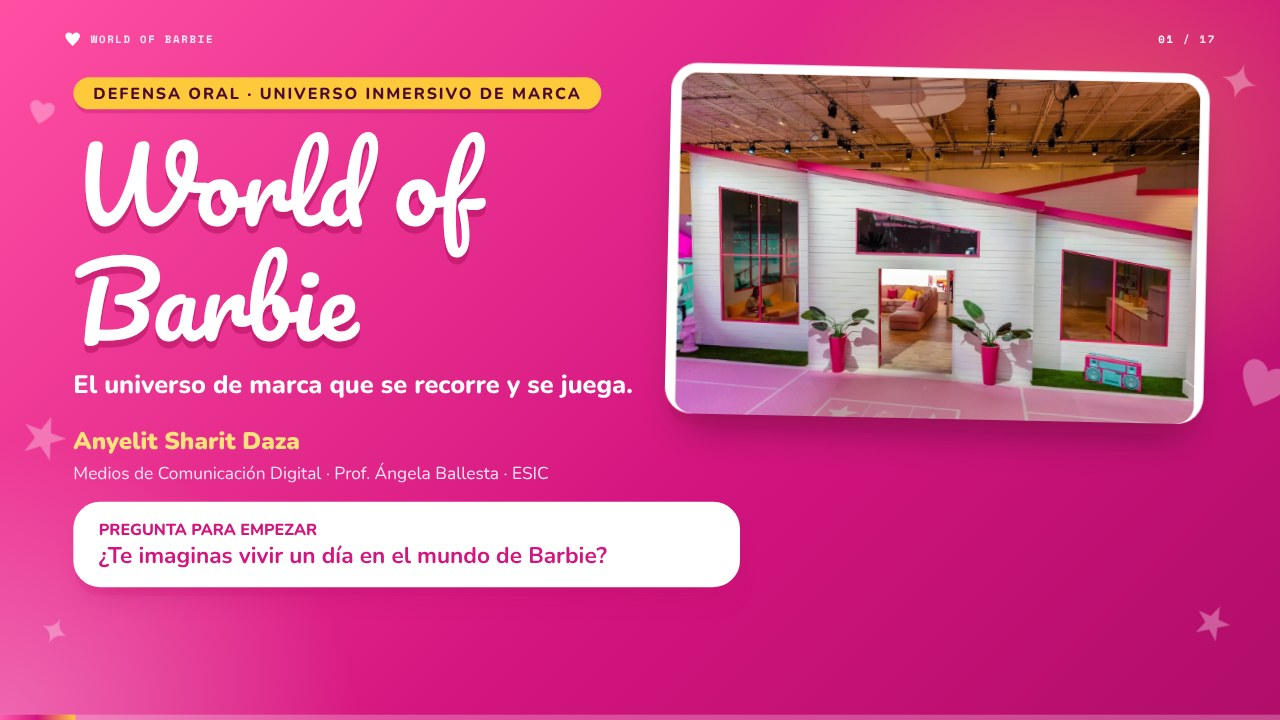
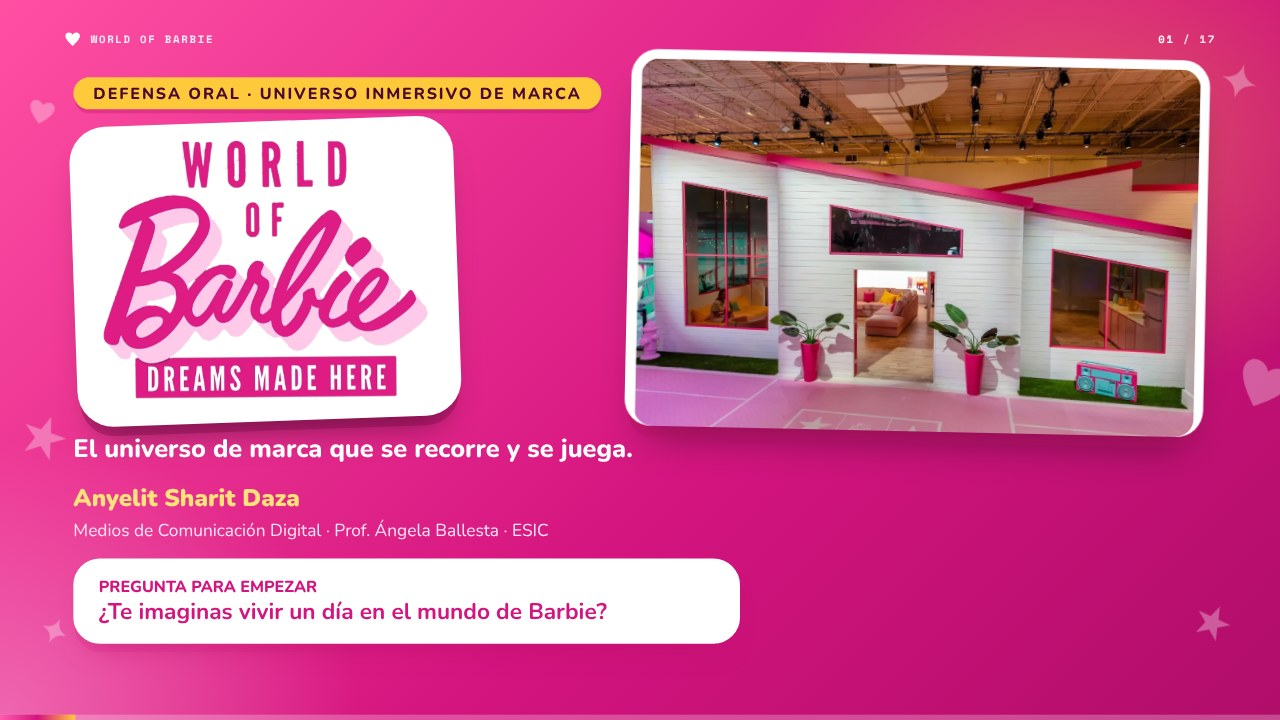
World of Barbie: logotipo recortado en la portada y fotos con más protagonismo (#54)
Claude-Session: https://claude.ai/code/session_01X8XjLzsPEuKnqDMJa19Lwn

diff --git a/world-of-barbie/index.html b/world-of-barbie/index.html
@@ -245,6 +245,23 @@ p{margin:0}
 .s-gracias h1,.s-valoracion h1{line-height:1.25} .s-gracias .lead,.s-valoracion .lead{margin-top:44px}
 .trio{top:92px} .trio .chipic{width:216px;height:216px}
 
+.logo-h1{margin:18px 0 0!important;line-height:0}
+.logo-h1 img{display:block;width:560px;height:auto;filter:drop-shadow(0 12px 0 rgba(120,10,70,.35))}
+.s-cover .lead{margin-top:6px}
+.s-cover .autora{margin-top:26px}
+/* ── las fotos toman más protagonismo ── */
+.withpic .cont{width:1180px} .withpic h2{max-width:1180px}
+.sidepic{position:absolute;right:110px;top:236px;width:540px;height:700px;margin:0;z-index:4;background:#fff;padding:14px;border-radius:46px;transform:rotate(3deg);box-shadow:0 24px 0 -6px rgba(176,18,95,.4),0 44px 60px -30px rgba(0,0,0,.45)}
+.sidepic img{display:block;width:100%;height:100%;object-fit:cover;border-radius:34px}
+.gal img{height:440px}
+.big-pic{width:880px;top:92px}
+.s-gracias .big-pic{width:900px;top:130px}
+.logo-h1{display:inline-block;background:#fff;border-radius:54px;padding:28px 38px 22px;transform:rotate(-2deg);box-shadow:0 18px 0 -4px rgba(120,10,70,.4),0 36px 50px -28px rgba(0,0,0,.5)}
+.logo-h1 img{width:500px;filter:none}
+.s-cover .lead{width:800px}
+.withpic .cont{width:1110px} .withpic h2{max-width:1110px}
+.big-pic{width:840px} .s-gracias .big-pic{width:820px}
+
 </style>
 </head>
 <body>
@@ -266,7 +283,7 @@ p{margin:0}
 <div class="cont">
 
 <div class="tagrow"><p class="tag">Defensa oral · Universo inmersivo de marca</p></div>
-<h1><span class="w">World</span> <span class="w">of</span><br><span class="w">Barbie</span></h1>
+<h1 class="logo-h1"><img src="img/logo-wob.png" alt="World of Barbie · Dreams made here"></h1>
 <p class="lead" style="width:900px;color:#FFFFFF">El universo de marca que se recorre y se juega.</p>
 <p class="autora">Anyelit Sharit Daza</p>
 <p class="curso">Medios de Comunicación Digital · Prof. Ángela Ballesta · ESIC</p>
@@ -343,8 +360,8 @@ p{margin:0}
 
 </div><p class="foot">Fuentes: Bianco y Leopo (2023); Resident (2023); El Universo (2023); Hewitt (2023). El orden puede cambiar según el día.</p>
 </section>
-<section class="lam claro s-inmersion" data-k="inmersion" data-notas="EN SIMPLE: «inmersiva» significa que entras, te quedas y participas, en vez de solo mirar. Son las tres pruebas de mi trabajo.|PREGUNTAS PROBABLES: 1) ¿Por qué participación «alta»? Porque el visitante actúa: presenta noticias, hace de DJ, se sienta al volante de la camper, se desliza al foso de pelotas. 2) ¿Por qué comparas con las otras tres? Para mostrar que World of Barbie une alta participación con gran alcance: más de 250.000 visitantes frente a 4 huéspedes. 3) ¿De dónde sale la definición? De Pine y Gilmore (1998) y Brakus et al. (2009): una experiencia de marca involucra a la persona de forma personal y memorable. Las tres pruebas son criterio del núcleo. 4) ¿La valoración es un dato? No, es mi punto de vista con esas fuentes.">
-<div class="trio"><i class="ichip lg"><svg class="ic" viewBox="0 0 100 100" fill="currentColor" stroke="currentColor" stroke-width="0" aria-hidden="true"><path d="M50 6 L61 38 L95 38 L67 58 L78 92 L50 71 L22 92 L33 58 L5 38 L39 38 Z"/></svg></i><i class="ichip lg"><svg class="ic" viewBox="0 0 100 100" fill="currentColor" stroke="currentColor" stroke-width="0" aria-hidden="true"><rect x="34" y="6" width="32" height="50" rx="16"/><path d="M22 40 C22 70 78 70 78 40" fill="none" stroke-width="7" stroke-linecap="round"/><rect x="46" y="64" width="8" height="22"/><rect x="30" y="86" width="40" height="8" rx="4"/></svg></i><i class="ichip lg"><svg class="ic" viewBox="0 0 100 100" fill="currentColor" stroke="currentColor" stroke-width="0" aria-hidden="true"><path d="M50 4 C54 32 68 46 96 50 C68 54 54 68 50 96 C46 68 32 54 4 50 C32 46 46 32 50 4 Z"/></svg></i><figure class="chipic"><img src="img/bolas.webp" alt="Visitantes ríen y levantan los brazos en la piscina de pelotas, junto al tobogán rosado"></figure></div><div class="deco"><span class="fl" style="left:40px;top:160px;width:86px;height:86px"><svg class="ic" viewBox="0 0 100 100" fill="currentColor" stroke="currentColor" stroke-width="0" aria-hidden="true"><path d="M50 6 L61 38 L95 38 L67 58 L78 92 L50 71 L22 92 L33 58 L5 38 L39 38 Z"/></svg></span><span class="fl" style="left:1830px;top:110px;width:44px;height:44px"><svg class="ic" viewBox="0 0 100 100" fill="currentColor" stroke="currentColor" stroke-width="0" aria-hidden="true"><path d="M50 88 C20 62 8 44 8 30 C8 18 17 10 28 10 C37 10 45 15 50 23 C55 15 63 10 72 10 C83 10 92 18 92 30 C92 44 80 62 50 88 Z"/></svg></span><span class="fl" style="left:30px;top:640px;width:58px;height:58px"><svg class="ic" viewBox="0 0 100 100" fill="currentColor" stroke="currentColor" stroke-width="0" aria-hidden="true"><path d="M50 4 C54 32 68 46 96 50 C68 54 54 68 50 96 C46 68 32 54 4 50 C32 46 46 32 50 4 Z"/></svg></span><span class="fl" style="left:1850px;top:560px;width:72px;height:72px"><svg class="ic" viewBox="0 0 100 100" fill="currentColor" stroke="currentColor" stroke-width="0" aria-hidden="true"><path d="M50 6 L61 38 L95 38 L67 58 L78 92 L50 71 L22 92 L33 58 L5 38 L39 38 Z"/></svg></span><span class="fl" style="left:60px;top:950px;width:86px;height:86px"><svg class="ic" viewBox="0 0 100 100" fill="currentColor" stroke="currentColor" stroke-width="0" aria-hidden="true"><path d="M50 88 C20 62 8 44 8 30 C8 18 17 10 28 10 C37 10 45 15 50 23 C55 15 63 10 72 10 C83 10 92 18 92 30 C92 44 80 62 50 88 Z"/></svg></span><span class="fl" style="left:1790px;top:930px;width:44px;height:44px"><svg class="ic" viewBox="0 0 100 100" fill="currentColor" stroke="currentColor" stroke-width="0" aria-hidden="true"><path d="M50 4 C54 32 68 46 96 50 C68 54 54 68 50 96 C46 68 32 54 4 50 C32 46 46 32 50 4 Z"/></svg></span></div><span class="ghost"><svg class="ic" viewBox="0 0 100 100" fill="currentColor" stroke="currentColor" stroke-width="0" aria-hidden="true"><path d="M50 88 C20 62 8 44 8 30 C8 18 17 10 28 10 C37 10 45 15 50 23 C55 15 63 10 72 10 C83 10 92 18 92 30 C92 44 80 62 50 88 Z"/></svg></span>
+<section class="lam claro withpic s-inmersion" data-k="inmersion" data-notas="EN SIMPLE: «inmersiva» significa que entras, te quedas y participas, en vez de solo mirar. Son las tres pruebas de mi trabajo.|PREGUNTAS PROBABLES: 1) ¿Por qué participación «alta»? Porque el visitante actúa: presenta noticias, hace de DJ, se sienta al volante de la camper, se desliza al foso de pelotas. 2) ¿Por qué comparas con las otras tres? Para mostrar que World of Barbie une alta participación con gran alcance: más de 250.000 visitantes frente a 4 huéspedes. 3) ¿De dónde sale la definición? De Pine y Gilmore (1998) y Brakus et al. (2009): una experiencia de marca involucra a la persona de forma personal y memorable. Las tres pruebas son criterio del núcleo. 4) ¿La valoración es un dato? No, es mi punto de vista con esas fuentes.">
+<div class="trio"><i class="ichip lg"><svg class="ic" viewBox="0 0 100 100" fill="currentColor" stroke="currentColor" stroke-width="0" aria-hidden="true"><path d="M50 6 L61 38 L95 38 L67 58 L78 92 L50 71 L22 92 L33 58 L5 38 L39 38 Z"/></svg></i><i class="ichip lg"><svg class="ic" viewBox="0 0 100 100" fill="currentColor" stroke="currentColor" stroke-width="0" aria-hidden="true"><rect x="34" y="6" width="32" height="50" rx="16"/><path d="M22 40 C22 70 78 70 78 40" fill="none" stroke-width="7" stroke-linecap="round"/><rect x="46" y="64" width="8" height="22"/><rect x="30" y="86" width="40" height="8" rx="4"/></svg></i><i class="ichip lg"><svg class="ic" viewBox="0 0 100 100" fill="currentColor" stroke="currentColor" stroke-width="0" aria-hidden="true"><path d="M50 4 C54 32 68 46 96 50 C68 54 54 68 50 96 C46 68 32 54 4 50 C32 46 46 32 50 4 Z"/></svg></i></div><div class="deco"><span class="fl" style="left:40px;top:160px;width:86px;height:86px"><svg class="ic" viewBox="0 0 100 100" fill="currentColor" stroke="currentColor" stroke-width="0" aria-hidden="true"><path d="M50 6 L61 38 L95 38 L67 58 L78 92 L50 71 L22 92 L33 58 L5 38 L39 38 Z"/></svg></span><span class="fl" style="left:1830px;top:110px;width:44px;height:44px"><svg class="ic" viewBox="0 0 100 100" fill="currentColor" stroke="currentColor" stroke-width="0" aria-hidden="true"><path d="M50 88 C20 62 8 44 8 30 C8 18 17 10 28 10 C37 10 45 15 50 23 C55 15 63 10 72 10 C83 10 92 18 92 30 C92 44 80 62 50 88 Z"/></svg></span><span class="fl" style="left:30px;top:640px;width:58px;height:58px"><svg class="ic" viewBox="0 0 100 100" fill="currentColor" stroke="currentColor" stroke-width="0" aria-hidden="true"><path d="M50 4 C54 32 68 46 96 50 C68 54 54 68 50 96 C46 68 32 54 4 50 C32 46 46 32 50 4 Z"/></svg></span><span class="fl" style="left:1850px;top:560px;width:72px;height:72px"><svg class="ic" viewBox="0 0 100 100" fill="currentColor" stroke="currentColor" stroke-width="0" aria-hidden="true"><path d="M50 6 L61 38 L95 38 L67 58 L78 92 L50 71 L22 92 L33 58 L5 38 L39 38 Z"/></svg></span><span class="fl" style="left:60px;top:950px;width:86px;height:86px"><svg class="ic" viewBox="0 0 100 100" fill="currentColor" stroke="currentColor" stroke-width="0" aria-hidden="true"><path d="M50 88 C20 62 8 44 8 30 C8 18 17 10 28 10 C37 10 45 15 50 23 C55 15 63 10 72 10 C83 10 92 18 92 30 C92 44 80 62 50 88 Z"/></svg></span><span class="fl" style="left:1790px;top:930px;width:44px;height:44px"><svg class="ic" viewBox="0 0 100 100" fill="currentColor" stroke="currentColor" stroke-width="0" aria-hidden="true"><path d="M50 4 C54 32 68 46 96 50 C68 54 54 68 50 96 C46 68 32 54 4 50 C32 46 46 32 50 4 Z"/></svg></span></div><span class="ghost"><svg class="ic" viewBox="0 0 100 100" fill="currentColor" stroke="currentColor" stroke-width="0" aria-hidden="true"><path d="M50 88 C20 62 8 44 8 30 C8 18 17 10 28 10 C37 10 45 15 50 23 C55 15 63 10 72 10 C83 10 92 18 92 30 C92 44 80 62 50 88 Z"/></svg></span>
 <div class="cont">
 <div class="tagrow"><p class="tag">Apartado 2 · Inmersión</p></div>
 <h2><span class="w">Entrar,</span> <span class="w">quedarse</span> <span class="w">y</span> <span class="w">participar</span></h2>
@@ -358,7 +375,7 @@ p{margin:0}
 <div class="card cream"><p><b>Comparación:</b> Malibu DreamHouse también es de participación alta, pero guiada y para 4 personas. El Café y la Suite, participación baja.</p></div>
 </div>
 
-</div><p class="foot">Fuentes: Pine y Gilmore (1998); Brakus et al. (2009); Resident (2023); Hewitt (2023). Valoración: punto de vista de la autora.</p>
+</div><figure class="sidepic"><img src="img/bolas.webp" alt="Visitantes ríen y levantan los brazos en la piscina de pelotas, junto al tobogán rosado"></figure><p class="foot">Fuentes: Pine y Gilmore (1998); Brakus et al. (2009); Resident (2023); Hewitt (2023). Valoración: punto de vista de la autora.</p>
 </section>
 <section class="lam claro s-tipo" data-k="tipo" data-notas="EN SIMPLE: el tipo de inmersión responde a «¿cómo me meto en la experiencia?». En World of Barbie es por el espacio (entro a una casa a tamaño real) y por la acción (hago cosas con el cuerpo y actúo papeles).|GUION (15 segundos): «Es una inmersión de espacio y acción. De espacio, porque el visitante camina una casa de Barbie a tamaño real. De acción, porque se desliza por el tobogán, se sienta al volante de la camper y hace de DJ, presentadora o astronauta. No usa realidad virtual ni deja cambiar la historia.»|PREGUNTAS PROBABLES: 1) ¿Qué es una inmersión «de espacio»? Que el lugar te rodea: todo es rosa y fucsia de piso a techo y las salas son a escala real. 2) ¿Qué es una inmersión «de acción»? Que no solo miras: participas con el cuerpo, como en el tobogán, la camper o el estudio de TV. 3) ¿Por qué no es de tecnología? No hay realidad virtual ni aumentada documentada; solo apoyos como el cohete con control de misión y el estudio de TV. 4) ¿Por qué no es de cocreación? Porque el visitante interpreta papeles ya escritos por la marca y solo elige accesorios y ropa; hay extras de pago para diseñar un atuendo o peinado. 5) ¿Quién clasificó esto? Es mi lectura como autora; las acciones vienen de Bianco y Leopo (2023), Resident (2023) y El Universo (2023).">
 <div class="trio"><i class="ichip lg"><svg class="ic" viewBox="0 0 100 100" fill="currentColor" stroke="currentColor" stroke-width="0" aria-hidden="true"><path d="M50 4 C54 32 68 46 96 50 C68 54 54 68 50 96 C46 68 32 54 4 50 C32 46 46 32 50 4 Z"/></svg></i><i class="ichip lg"><svg class="ic" viewBox="0 0 140 100" fill="currentColor" stroke="currentColor" stroke-width="0" aria-hidden="true"><path fill-rule="evenodd" d="M16 24 H98 C114 24 128 38 128 58 V72 H12 V30 A6 6 0 0 1 16 24 Z M26 34 H56 V54 H26 Z M64 34 H92 V54 H64 Z"/><circle cx="38" cy="76" r="14"/><circle cx="98" cy="76" r="14"/></svg></i><i class="ichip lg"><svg class="ic" viewBox="0 0 100 100" fill="currentColor" stroke="currentColor" stroke-width="0" aria-hidden="true"><path d="M50 88 C20 62 8 44 8 30 C8 18 17 10 28 10 C37 10 45 15 50 23 C55 15 63 10 72 10 C83 10 92 18 92 30 C92 44 80 62 50 88 Z"/></svg></i></div><div class="deco"><span class="fl" style="left:40px;top:160px;width:72px;height:72px"><svg class="ic" viewBox="0 0 100 100" fill="currentColor" stroke="currentColor" stroke-width="0" aria-hidden="true"><path d="M50 88 C20 62 8 44 8 30 C8 18 17 10 28 10 C37 10 45 15 50 23 C55 15 63 10 72 10 C83 10 92 18 92 30 C92 44 80 62 50 88 Z"/></svg></span><span class="fl" style="left:1830px;top:110px;width:86px;height:86px"><svg class="ic" viewBox="0 0 100 100" fill="currentColor" stroke="currentColor" stroke-width="0" aria-hidden="true"><path d="M50 4 C54 32 68 46 96 50 C68 54 54 68 50 96 C46 68 32 54 4 50 C32 46 46 32 50 4 Z"/></svg></span><span class="fl" style="left:30px;top:640px;width:44px;height:44px"><svg class="ic" viewBox="0 0 100 100" fill="currentColor" stroke="currentColor" stroke-width="0" aria-hidden="true"><path d="M50 6 L61 38 L95 38 L67 58 L78 92 L50 71 L22 92 L33 58 L5 38 L39 38 Z"/></svg></span><span class="fl" style="left:1850px;top:560px;width:58px;height:58px"><svg class="ic" viewBox="0 0 100 100" fill="currentColor" stroke="currentColor" stroke-width="0" aria-hidden="true"><path d="M50 88 C20 62 8 44 8 30 C8 18 17 10 28 10 C37 10 45 15 50 23 C55 15 63 10 72 10 C83 10 92 18 92 30 C92 44 80 62 50 88 Z"/></svg></span><span class="fl" style="left:60px;top:950px;width:72px;height:72px"><svg class="ic" viewBox="0 0 100 100" fill="currentColor" stroke="currentColor" stroke-width="0" aria-hidden="true"><path d="M50 4 C54 32 68 46 96 50 C68 54 54 68 50 96 C46 68 32 54 4 50 C32 46 46 32 50 4 Z"/></svg></span><span class="fl" style="left:1790px;top:930px;width:86px;height:86px"><svg class="ic" viewBox="0 0 100 100" fill="currentColor" stroke="currentColor" stroke-width="0" aria-hidden="true"><path d="M50 6 L61 38 L95 38 L67 58 L78 92 L50 71 L22 92 L33 58 L5 38 L39 38 Z"/></svg></span></div><span class="ghost"><svg class="ic" viewBox="0 0 100 100" fill="currentColor" stroke="currentColor" stroke-width="0" aria-hidden="true"><path d="M50 4 C68 20 72 44 66 70 L34 70 C28 44 32 20 50 4 Z"/><path d="M34 70 L16 88 L34 84 Z"/><path d="M66 70 L84 88 L66 84 Z"/><path d="M42 74 L58 74 L50 94 Z"/></svg></span>
@@ -429,8 +446,8 @@ p{margin:0}
 
 </div><p class="foot">Fuentes: Stoddard (2022); Kidscreen (2022); Resident (2023); Bianco y Leopo (2023); Chieffi (2023). Ubicación del rol: análisis propio.</p>
 </section>
-<section class="lam claro s-relato" data-k="relato" data-notas="EN SIMPLE: la atracción no cuenta la película, cuenta la historia de la marca.|PREGUNTAS PROBABLES: 1) ¿Cómo sabes que cuenta la historia de la marca? Por el museo, que va de la muñeca de 1959 a las versiones diversas de hoy (El Universo, 2023), y por las salas de carreras, que llevan el lema a la práctica (Resident, 2023). 2) ¿Qué es la inclusión aquí? Muñecas de distintas razas, religiones y capacidades (Spectrum News 1, 2023); en el museo hay líneas con sillas de ruedas y vitiligo (Bianco y Leopo, 2023). 3) ¿La frase «Tú la vives en primera persona» es un dato? Es mi lectura como autora. 4) ¿La identidad es igual en todas las ciudades? Los elementos constantes son el rosa, la Dreamhouse, la camper y las carreras; las mismas zonas viajan de Toronto a Santa Monica y Frisco (Resident, 2023).">
-<div class="trio"><i class="ichip lg"><svg class="ic" viewBox="0 0 100 100" fill="currentColor" stroke="currentColor" stroke-width="0" aria-hidden="true"><path d="M50 6 L61 38 L95 38 L67 58 L78 92 L50 71 L22 92 L33 58 L5 38 L39 38 Z"/></svg></i><i class="ichip lg"><svg class="ic" viewBox="0 0 100 100" fill="currentColor" stroke="currentColor" stroke-width="0" aria-hidden="true"><path fill-rule="evenodd" d="M20 30 L32 30 L38 20 L62 20 L68 30 L80 30 A8 8 0 0 1 88 38 L88 76 A8 8 0 0 1 80 84 L20 84 A8 8 0 0 1 12 76 L12 38 A8 8 0 0 1 20 30 Z M50 40 A18 18 0 1 0 50 76 A18 18 0 1 0 50 40 Z"/></svg></i><i class="ichip lg"><svg class="ic" viewBox="0 0 100 100" fill="currentColor" stroke="currentColor" stroke-width="0" aria-hidden="true"><path d="M50 4 C54 32 68 46 96 50 C68 54 54 68 50 96 C46 68 32 54 4 50 C32 46 46 32 50 4 Z"/></svg></i><figure class="chipic"><img src="img/museo.webp" alt="Dos visitantes señalan una vitrina con muñecas Barbie en el museo, junto a la línea de hitos de la marca"></figure></div><div class="deco"><span class="fl" style="left:40px;top:160px;width:72px;height:72px"><svg class="ic" viewBox="0 0 100 100" fill="currentColor" stroke="currentColor" stroke-width="0" aria-hidden="true"><path d="M50 4 C54 32 68 46 96 50 C68 54 54 68 50 96 C46 68 32 54 4 50 C32 46 46 32 50 4 Z"/></svg></span><span class="fl" style="left:1830px;top:110px;width:86px;height:86px"><svg class="ic" viewBox="0 0 100 100" fill="currentColor" stroke="currentColor" stroke-width="0" aria-hidden="true"><path d="M50 6 L61 38 L95 38 L67 58 L78 92 L50 71 L22 92 L33 58 L5 38 L39 38 Z"/></svg></span><span class="fl" style="left:30px;top:640px;width:44px;height:44px"><svg class="ic" viewBox="0 0 100 100" fill="currentColor" stroke="currentColor" stroke-width="0" aria-hidden="true"><path d="M50 88 C20 62 8 44 8 30 C8 18 17 10 28 10 C37 10 45 15 50 23 C55 15 63 10 72 10 C83 10 92 18 92 30 C92 44 80 62 50 88 Z"/></svg></span><span class="fl" style="left:1850px;top:560px;width:58px;height:58px"><svg class="ic" viewBox="0 0 100 100" fill="currentColor" stroke="currentColor" stroke-width="0" aria-hidden="true"><path d="M50 4 C54 32 68 46 96 50 C68 54 54 68 50 96 C46 68 32 54 4 50 C32 46 46 32 50 4 Z"/></svg></span><span class="fl" style="left:60px;top:950px;width:72px;height:72px"><svg class="ic" viewBox="0 0 100 100" fill="currentColor" stroke="currentColor" stroke-width="0" aria-hidden="true"><path d="M50 6 L61 38 L95 38 L67 58 L78 92 L50 71 L22 92 L33 58 L5 38 L39 38 Z"/></svg></span><span class="fl" style="left:1790px;top:930px;width:86px;height:86px"><svg class="ic" viewBox="0 0 100 100" fill="currentColor" stroke="currentColor" stroke-width="0" aria-hidden="true"><path d="M50 88 C20 62 8 44 8 30 C8 18 17 10 28 10 C37 10 45 15 50 23 C55 15 63 10 72 10 C83 10 92 18 92 30 C92 44 80 62 50 88 Z"/></svg></span></div><span class="ghost"><svg class="ic" viewBox="0 0 100 100" fill="currentColor" stroke="currentColor" stroke-width="0" aria-hidden="true"><path d="M50 50 C36 28 10 24 8 38 C6 56 30 68 50 50 Z"/><path d="M50 50 C64 28 90 24 92 38 C94 56 70 68 50 50 Z"/><circle cx="50" cy="50" r="9"/><path d="M44 58 L30 90 L44 84 L50 62 Z"/><path d="M56 58 L70 90 L56 84 L50 62 Z"/></svg></span>
+<section class="lam claro withpic s-relato" data-k="relato" data-notas="EN SIMPLE: la atracción no cuenta la película, cuenta la historia de la marca.|PREGUNTAS PROBABLES: 1) ¿Cómo sabes que cuenta la historia de la marca? Por el museo, que va de la muñeca de 1959 a las versiones diversas de hoy (El Universo, 2023), y por las salas de carreras, que llevan el lema a la práctica (Resident, 2023). 2) ¿Qué es la inclusión aquí? Muñecas de distintas razas, religiones y capacidades (Spectrum News 1, 2023); en el museo hay líneas con sillas de ruedas y vitiligo (Bianco y Leopo, 2023). 3) ¿La frase «Tú la vives en primera persona» es un dato? Es mi lectura como autora. 4) ¿La identidad es igual en todas las ciudades? Los elementos constantes son el rosa, la Dreamhouse, la camper y las carreras; las mismas zonas viajan de Toronto a Santa Monica y Frisco (Resident, 2023).">
+<div class="trio"><i class="ichip lg"><svg class="ic" viewBox="0 0 100 100" fill="currentColor" stroke="currentColor" stroke-width="0" aria-hidden="true"><path d="M50 6 L61 38 L95 38 L67 58 L78 92 L50 71 L22 92 L33 58 L5 38 L39 38 Z"/></svg></i><i class="ichip lg"><svg class="ic" viewBox="0 0 100 100" fill="currentColor" stroke="currentColor" stroke-width="0" aria-hidden="true"><path fill-rule="evenodd" d="M20 30 L32 30 L38 20 L62 20 L68 30 L80 30 A8 8 0 0 1 88 38 L88 76 A8 8 0 0 1 80 84 L20 84 A8 8 0 0 1 12 76 L12 38 A8 8 0 0 1 20 30 Z M50 40 A18 18 0 1 0 50 76 A18 18 0 1 0 50 40 Z"/></svg></i><i class="ichip lg"><svg class="ic" viewBox="0 0 100 100" fill="currentColor" stroke="currentColor" stroke-width="0" aria-hidden="true"><path d="M50 4 C54 32 68 46 96 50 C68 54 54 68 50 96 C46 68 32 54 4 50 C32 46 46 32 50 4 Z"/></svg></i></div><div class="deco"><span class="fl" style="left:40px;top:160px;width:72px;height:72px"><svg class="ic" viewBox="0 0 100 100" fill="currentColor" stroke="currentColor" stroke-width="0" aria-hidden="true"><path d="M50 4 C54 32 68 46 96 50 C68 54 54 68 50 96 C46 68 32 54 4 50 C32 46 46 32 50 4 Z"/></svg></span><span class="fl" style="left:1830px;top:110px;width:86px;height:86px"><svg class="ic" viewBox="0 0 100 100" fill="currentColor" stroke="currentColor" stroke-width="0" aria-hidden="true"><path d="M50 6 L61 38 L95 38 L67 58 L78 92 L50 71 L22 92 L33 58 L5 38 L39 38 Z"/></svg></span><span class="fl" style="left:30px;top:640px;width:44px;height:44px"><svg class="ic" viewBox="0 0 100 100" fill="currentColor" stroke="currentColor" stroke-width="0" aria-hidden="true"><path d="M50 88 C20 62 8 44 8 30 C8 18 17 10 28 10 C37 10 45 15 50 23 C55 15 63 10 72 10 C83 10 92 18 92 30 C92 44 80 62 50 88 Z"/></svg></span><span class="fl" style="left:1850px;top:560px;width:58px;height:58px"><svg class="ic" viewBox="0 0 100 100" fill="currentColor" stroke="currentColor" stroke-width="0" aria-hidden="true"><path d="M50 4 C54 32 68 46 96 50 C68 54 54 68 50 96 C46 68 32 54 4 50 C32 46 46 32 50 4 Z"/></svg></span><span class="fl" style="left:60px;top:950px;width:72px;height:72px"><svg class="ic" viewBox="0 0 100 100" fill="currentColor" stroke="currentColor" stroke-width="0" aria-hidden="true"><path d="M50 6 L61 38 L95 38 L67 58 L78 92 L50 71 L22 92 L33 58 L5 38 L39 38 Z"/></svg></span><span class="fl" style="left:1790px;top:930px;width:86px;height:86px"><svg class="ic" viewBox="0 0 100 100" fill="currentColor" stroke="currentColor" stroke-width="0" aria-hidden="true"><path d="M50 88 C20 62 8 44 8 30 C8 18 17 10 28 10 C37 10 45 15 50 23 C55 15 63 10 72 10 C83 10 92 18 92 30 C92 44 80 62 50 88 Z"/></svg></span></div><span class="ghost"><svg class="ic" viewBox="0 0 100 100" fill="currentColor" stroke="currentColor" stroke-width="0" aria-hidden="true"><path d="M50 50 C36 28 10 24 8 38 C6 56 30 68 50 50 Z"/><path d="M50 50 C64 28 90 24 92 38 C94 56 70 68 50 50 Z"/><circle cx="50" cy="50" r="9"/><path d="M44 58 L30 90 L44 84 L50 62 Z"/><path d="M56 58 L70 90 L56 84 L50 62 Z"/></svg></span>
 <div class="cont">
 <div class="tagrow"><p class="tag">Apartado 2 · Relato de la marca</p></div>
 <h2><span class="w">Cuenta</span> <span class="w">la</span> <span class="w">historia</span> <span class="w">de</span> <span class="w">Barbie</span></h2>
@@ -442,7 +459,7 @@ p{margin:0}
 <p class="lead">Mi lectura: no repite la película; cuenta la marca de principio a fin y <span class="em">tú la vives en primera persona</span>.</p>
 <p class="note">La tecnología solo apoya: cohete con control de misión y estudio de TV. No hay realidad virtual ni aumentada.</p>
 
-</div><p class="foot">Fuentes: Irick y Navarro (2023); Stoddard (2022); Resident (2023); Spectrum News 1 (2023); Bianco y Leopo (2023).</p>
+</div><figure class="sidepic"><img src="img/museo.webp" alt="Dos visitantes señalan una vitrina con muñecas Barbie en el museo, junto a la línea de hitos de la marca"></figure><p class="foot">Fuentes: Irick y Navarro (2023); Stoddard (2022); Resident (2023); Spectrum News 1 (2023); Bianco y Leopo (2023).</p>
 </section>
 <section class="lam claro s-comunicacion" data-k="comunicacion" data-notas="EN SIMPLE: miré cómo se avisó la atracción, qué pasó mientras estaba abierta y qué pasó después.|MEDIOS USADOS: comunicados de los organizadores, web oficial, la plataforma Fever (venta de entradas) y cobertura de televisión y prensa local. No hay medios pagados documentados.|PREGUNTAS PROBABLES: 1) ¿Qué es «medio ganado»? Prensa que habla de la atracción sin que la marca pague por ello, como NBC Los Angeles, LAist y AFP. 2) ¿Hay métricas de redes? No hay datos verificables. Solo sé de forma cualitativa que una visitante la descubrió por TikTok y que influencers fueron a las noches Sips After Sunset (Hewitt, 2023; Irick y Navarro, 2023). 3) ¿Por qué se ampliaron las fechas? Los organizadores la ampliaron más de una vez por la demanda (Resident, 2023). Santa Monica siguió abierta hasta septiembre de 2023.">
 <div class="trio"><i class="ichip lg"><svg class="ic" viewBox="0 0 100 100" fill="currentColor" stroke="currentColor" stroke-width="0" aria-hidden="true"><path d="M50 88 C20 62 8 44 8 30 C8 18 17 10 28 10 C37 10 45 15 50 23 C55 15 63 10 72 10 C83 10 92 18 92 30 C92 44 80 62 50 88 Z"/></svg></i><i class="ichip lg"><svg class="ic" viewBox="0 0 100 100" fill="currentColor" stroke="currentColor" stroke-width="0" aria-hidden="true"><path fill-rule="evenodd" d="M20 30 L32 30 L38 20 L62 20 L68 30 L80 30 A8 8 0 0 1 88 38 L88 76 A8 8 0 0 1 80 84 L20 84 A8 8 0 0 1 12 76 L12 38 A8 8 0 0 1 20 30 Z M50 40 A18 18 0 1 0 50 76 A18 18 0 1 0 50 40 Z"/></svg></i><i class="ichip lg"><svg class="ic" viewBox="0 0 100 100" fill="currentColor" stroke="currentColor" stroke-width="0" aria-hidden="true"><path d="M50 6 L61 38 L95 38 L67 58 L78 92 L50 71 L22 92 L33 58 L5 38 L39 38 Z"/></svg></i></div><div class="deco"><span class="fl" style="left:40px;top:160px;width:58px;height:58px"><svg class="ic" viewBox="0 0 100 100" fill="currentColor" stroke="currentColor" stroke-width="0" aria-hidden="true"><path d="M50 6 L61 38 L95 38 L67 58 L78 92 L50 71 L22 92 L33 58 L5 38 L39 38 Z"/></svg></span><span class="fl" style="left:1830px;top:110px;width:72px;height:72px"><svg class="ic" viewBox="0 0 100 100" fill="currentColor" stroke="currentColor" stroke-width="0" aria-hidden="true"><path d="M50 88 C20 62 8 44 8 30 C8 18 17 10 28 10 C37 10 45 15 50 23 C55 15 63 10 72 10 C83 10 92 18 92 30 C92 44 80 62 50 88 Z"/></svg></span><span class="fl" style="left:30px;top:640px;width:86px;height:86px"><svg class="ic" viewBox="0 0 100 100" fill="currentColor" stroke="currentColor" stroke-width="0" aria-hidden="true"><path d="M50 4 C54 32 68 46 96 50 C68 54 54 68 50 96 C46 68 32 54 4 50 C32 46 46 32 50 4 Z"/></svg></span><span class="fl" style="left:1850px;top:560px;width:44px;height:44px"><svg class="ic" viewBox="0 0 100 100" fill="currentColor" stroke="currentColor" stroke-width="0" aria-hidden="true"><path d="M50 6 L61 38 L95 38 L67 58 L78 92 L50 71 L22 92 L33 58 L5 38 L39 38 Z"/></svg></span><span class="fl" style="left:60px;top:950px;width:58px;height:58px"><svg class="ic" viewBox="0 0 100 100" fill="currentColor" stroke="currentColor" stroke-width="0" aria-hidden="true"><path d="M50 88 C20 62 8 44 8 30 C8 18 17 10 28 10 C37 10 45 15 50 23 C55 15 63 10 72 10 C83 10 92 18 92 30 C92 44 80 62 50 88 Z"/></svg></span><span class="fl" style="left:1790px;top:930px;width:72px;height:72px"><svg class="ic" viewBox="0 0 100 100" fill="currentColor" stroke="currentColor" stroke-width="0" aria-hidden="true"><path d="M50 4 C54 32 68 46 96 50 C68 54 54 68 50 96 C46 68 32 54 4 50 C32 46 46 32 50 4 Z"/></svg></span></div><span class="ghost"><svg class="ic" viewBox="0 0 100 100" fill="currentColor" stroke="currentColor" stroke-width="0" aria-hidden="true"><path d="M50 4 C54 32 68 46 96 50 C68 54 54 68 50 96 C46 68 32 54 4 50 C32 46 46 32 50 4 Z"/></svg></span>
@@ -616,8 +633,8 @@ function entrar(n){
   var B=function(t){ bucles.push(t); return t };
   tl.from(q(".tag"),{x:-60,opacity:0,duration:.55},0)
     .from(q("h1 .w, h2 .w"),{y:90,opacity:0,rotate:4,scale:.9,duration:.85,stagger:.07,ease:"back.out(1.6)"},.1)
-    .from(q(".pic"),{y:120,opacity:0,rotate:-4,scale:.85,duration:1,ease:"back.out(1.3)"},.5)
-    .from(q(".chipic"),{scale:.5,rotate:-12,opacity:0,duration:.9,ease:"back.out(1.7)"},.4).from(q(".trio .ichip"),{scale:0,rotate:-60,duration:.6,stagger:.12,ease:"back.out(2.4)"},.5)
+    .from(q(".logo-h1 img"),{scale:.4,rotate:-12,opacity:0,duration:1.1,ease:"back.out(1.8)"},.15).from(q(".pic"),{y:120,opacity:0,rotate:-4,scale:.85,duration:1,ease:"back.out(1.3)"},.5)
+    .from(q(".sidepic"),{scale:.5,rotate:-12,opacity:0,duration:.9,ease:"back.out(1.7)"},.4).from(q(".trio .ichip"),{scale:0,rotate:-60,duration:.6,stagger:.12,ease:"back.out(2.4)"},.5)
     .from(q(".card, .line, .sense, .step, .gal, .heads"),{y:80,opacity:0,duration:.6,stagger:.09,ease:"back.out(1.3)"},.7)
     .from(q(".hc .ichip, .who .ichip, .dot"),{scale:0,rotate:-45,duration:.5,stagger:.06,ease:"back.out(2.6)"},1)
     .from(q(".rolimg"),{x:80,opacity:0,rotate:4,duration:.8},1)
@@ -626,11 +643,12 @@ function entrar(n){
     .from(q(".foot"),{opacity:0,duration:.5},2.2)
     .from(q(".ghost"),{scale:.5,opacity:0,duration:1},1);
   B(g.to(q(".fl"),{y:-26,rotation:"+=25",duration:3.2,yoyo:true,repeat:-1,ease:"sine.inOut",stagger:{each:.35,repeat:-1,yoyo:true}}));
-  B(g.to(q(".chipic"),{y:-8,rotation:2,duration:2.6,yoyo:true,repeat:-1,ease:"sine.inOut",delay:1.4}));
+  B(g.to(q(".sidepic"),{y:-8,rotation:2,duration:2.6,yoyo:true,repeat:-1,ease:"sine.inOut",delay:1.4}));
   B(g.to(q(".trio .ichip"),{y:-10,duration:1.8,yoyo:true,repeat:-1,ease:"sine.inOut",stagger:{each:.3,repeat:-1,yoyo:true},delay:1.6}));
   B(g.to(q(".card, .line, .step"),{y:-6,duration:2.4,yoyo:true,repeat:-1,ease:"sine.inOut",stagger:{each:.25,repeat:-1,yoyo:true},delay:3}));
   B(g.to(q(".hc .ichip, .dot"),{scale:1.1,rotate:8,duration:1.2,yoyo:true,repeat:-1,ease:"sine.inOut",stagger:{each:.2,repeat:-1,yoyo:true},delay:2.4}));
   B(g.to(q(".ghost"),{rotation:10,scale:1.06,duration:5,yoyo:true,repeat:-1,ease:"sine.inOut"}));
+  B(g.to(q(".logo-h1 img"),{rotation:1.6,y:-8,duration:3,yoyo:true,repeat:-1,ease:"sine.inOut",delay:1.4}));
   B(g.to(q(".pic"),{y:-10,rotation:1.2,duration:3.2,yoyo:true,repeat:-1,ease:"sine.inOut",delay:1.4}));
 }
 
